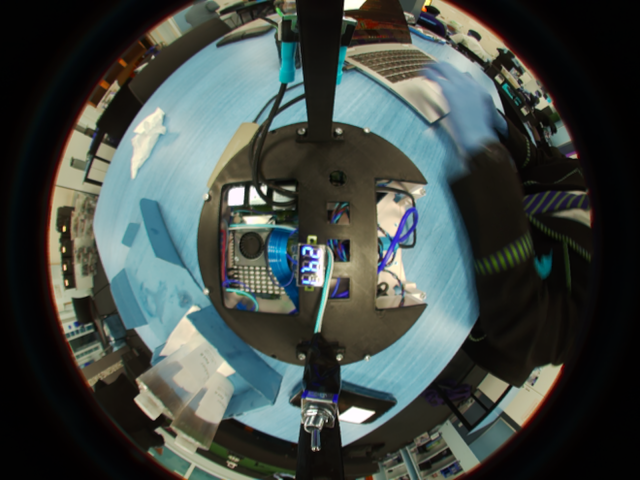
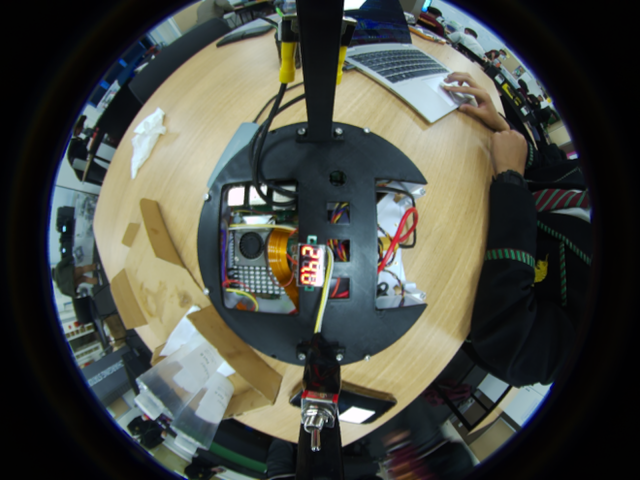
Boosting orange pixels
Boosted the orange pixels of the ball so I can find it easier

diff --git a/armin_vision.py b/armin_vision.py
@@ -22,6 +22,7 @@ class VisionService:
         self.camera_config = camera_config
         self.config = config
         self._clahe = self._create_clahe()
+        self.debug_mask = True  # set to False to disable mask overlay in debug frames
 
     def setup_camera(self) -> Picamera2:
         """Start the camera and apply saved exposure/white-balance settings."""
@@ -88,9 +89,10 @@ class VisionService:
         height, width = frame.shape[:2]
         centre_x, centre_y = width // 2, height // 2
         hsv = cv2.cvtColor(frame, cv2.COLOR_BGR2HSV)
-        h, s, value = cv2.split(hsv)
-        value = self._clahe.apply(value)
-        hsv = cv2.merge([h, s, value])
+        h, s, v = cv2.split(hsv)
+        sat_gain = 1.8
+        s = np.clip(s * sat_gain, 0, 255).astype(np.uint8)
+        hsv = cv2.merge([h, s, v])
 
         lower = np.array([self.config.h_low, self.config.s_low, self.config.v_low])
         upper = np.array([self.config.h_high, self.config.s_high, self.config.v_high])
@@ -121,6 +123,10 @@ class VisionService:
             offset = (ball_x - centre_x, ball_y - centre_y)
             cv2.circle(frame, (ball_x, ball_y), 5, (0, 0, 255), -1)
             cv2.line(frame, (centre_x, centre_y), ball, (255, 0, 0), 2)
+        
+        if self.debug_mask:
+            return cv2.cvtColor(mask, cv2.COLOR_GRAY2BGR), offset
+        
         return frame, offset
 
     @staticmethod
